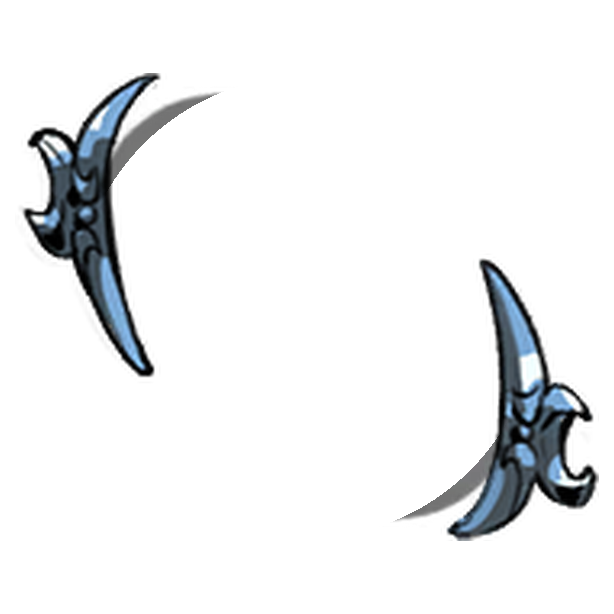
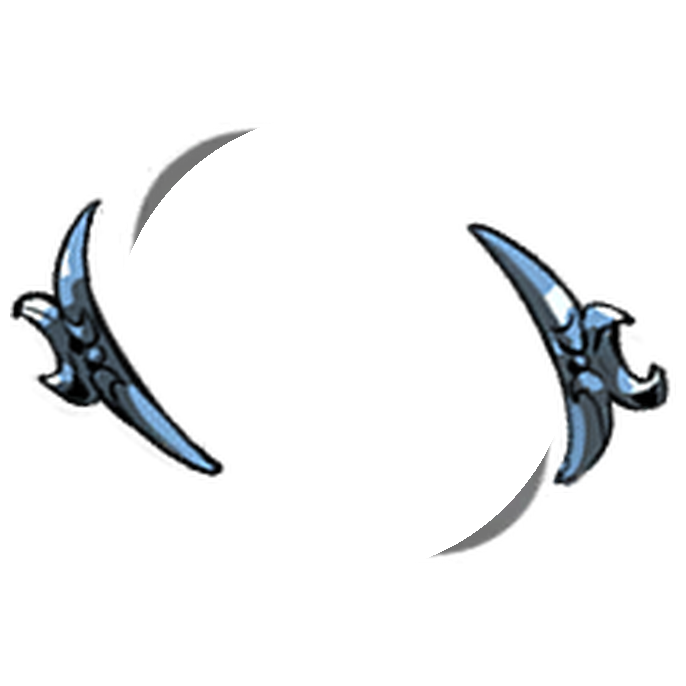
Wear the game's own marker on the run ring, and let Charon in
The run picker's ring is the game's Exit reward marker now, which is the right
answer to the question that ring asks: it is drawn on an Exit when there is
something behind it. The weapon and aspect rings stay on the plain drawn one.
Radial takes a frame override for that, so a ring can refuse the setting
without the setting having to know about it, and Setup is the only caller
using it: a weapon is a large diagonal cutout and the marker's wings reach
past the circle and tangle with a staff.

The wings needed the same treatment the disc did. They are drawn on the same
isometric plane, on an axis 25.7 degrees below horizontal, and on a real Exit
they read as left and right of the disc. The compose measures that angle from
their own alpha rather than hardcoding it, so a patch that moves them is
followed rather than fought, and lays them flat before cropping. They are
wider now too: at 1.14 of the disc they crossed the portrait inside it.

Charon. ChosenRewardType == "Shop" is a real door reward, RoomLogic.lua:4126
notes a Shop door is the one kind that cannot be rerolled, so a shop is behind
an Exit and spends one, unlike an Encounter.

And a shop is not its own family of rewards. StoreData.WorldShop stocks
RandomLoot and BoostedRandomLoot, which are a boon from any god and therefore
spend an Olympian slot, plus ShopHermesUpgrade, SpellDrop and
WeaponUpgradeDrop. So picking Charon asks the same question the other kinds
[…]

Changed region(s): [[0.6189, 0.3094, 0.9902, 0.8974], [0.0, 0.1238, 0.3713, 0.7117]]

diff --git a/scripts/reward-frame.ts b/scripts/reward-frame.ts
@@ -22,11 +22,16 @@
  * package. `deppth2`'s `-e` filter does not match these entries by any name
  * tried, so the package is extracted whole into `extracted/scriptsbase/`.
  *
- * **The disc is an ellipse, 122 by 162.** The game draws it in isometric, so it
- * is a circle seen at an angle. Squaring it back up is what makes it usable
- * face on, and it is why this script exists rather than a line in
- * `scripts/chrome.ts`: the shelf takes files as they are, and this one has to
- * be undistorted, punched through and recomposed first.
+ * **Both pieces are drawn in isometric and both have to be undone.** The disc
+ * is an ellipse, 122 by 162, so it is a circle seen at an angle; squaring the
+ * crop makes it round. The wings sit on an axis 25.7 degrees below horizontal,
+ * measured from their own alpha rather than hardcoded, and on a real Exit they
+ * read as left and right of the disc. Laying them flat is what makes the
+ * composed marker look like the thing in the game.
+ *
+ * That is why this is its own script rather than a line in `scripts/chrome.ts`:
+ * the shelf takes files as they are, and this one has to be undistorted,
+ * punched through and recomposed first.
  */
 
 import { existsSync, mkdirSync, writeFileSync } from 'node:fs'
@@ -71,8 +76,35 @@ def disc_ring(frame_path, punch=0.90):
     im.putalpha(Image.composite(im.getchannel("A"), Image.new("L", (SIZE, SIZE), 0), hole))
     return im
 
+def wing_axis(im):
+    """The angle the two crescents sit at, from their own alpha.
+
+    They are drawn diagonally because the game renders them on the same
+    isometric plane as the disc; on a door they read horizontal. Splitting the
+    sprite down the middle and taking each half's alpha-weighted centroid gives
+    the axis without hardcoding a number that a patch could move.
+    """
+    a = im.getchannel("A")
+    w, h = im.size
+    px = a.load()
+    def centroid(x0, x1):
+        sx = sy = n = 0
+        for y in range(h):
+            for x in range(x0, x1):
+                v = px[x, y]
+                if v > 30:
+                    sx += x*v; sy += y*v; n += v
+        return (sx/n, sy/n) if n else None
+    left, right = centroid(0, w//2), centroid(w//2, w)
+    if not left or not right:
+        return 0.0
+    import math
+    return math.degrees(math.atan2(right[1]-left[1], right[0]-left[0]))
+
 def wings(path, width):
     im = Image.open(path).convert("RGBA")
+    # Lay them flat first, then crop, or the crop keeps the diagonal's slack.
+    im = im.rotate(wing_axis(im), resample=Image.BICUBIC, expand=True)
     im = im.crop(im.getchannel("A").getbbox())
     return im.resize((width, round(im.height * width / im.width)), Image.LANCZOS)
 
@@ -91,10 +123,12 @@ for name, wing_src in [("run", "RoomRewardFrame-Run.png"), ("meta", "RoomRewardF
         report.append({"name": name, "error": "no " + wing_src})
         continue
 
-    canvas = round(SIZE * 1.2)
+    canvas = round(SIZE * 1.34)
     marker = Image.new("RGBA", (canvas, canvas), (0, 0, 0, 0))
     marker.alpha_composite(disc_ring(still), ((canvas - SIZE)//2, (canvas - SIZE)//2))
-    w = wings(wing_path, round(SIZE * 1.14))
+    # Wide enough that the crescents sit outside the disc, which is where the
+    # game puts them. At 1.14 they crossed the portrait inside it.
+    w = wings(wing_path, round(SIZE * 1.30))
     marker.alpha_composite(w, ((canvas - w.width)//2, (canvas - w.height)//2))
 
     suffix = "" if name == "run" else "-meta"

diff --git a/src/ui/Picker.tsx b/src/ui/Picker.tsx
@@ -30,7 +30,7 @@ import type { ArtShape } from './Radial.tsx'
 import type { HeldTrait, RunContext, TraitId } from '../data/types.ts'
 import type { RunEntry } from '../state/run.ts'
 
-type Kind = 'boon' | 'other' | 'hammer' | 'encounter' | 'artifact'
+type Kind = 'boon' | 'other' | 'hammer' | 'shop' | 'encounter' | 'artifact'
 
 const KINDS: { id: Kind; name: string; icon: string | null; art: ArtShape; note: string }[] = [
   {
@@ -61,6 +61,13 @@ const KINDS: { id: Kind; name: string; icon: string | null; art: ArtShape; note:
     icon: 'gods/artemis.webp',
     art: 'portrait',
     note: 'Not an Exit at all, and costs no slot',
+  },
+  {
+    id: 'shop',
+    name: "Charon's shop",
+    icon: 'characters/charon.webp',
+    art: 'portrait',
+    note: 'An Exit like any other. What you bought is what counts',
   },
   {
     id: 'artifact',
@@ -109,6 +116,27 @@ export function Picker({
     if (which === 'boon') return sources.filter((s) => s.kind === 'olympian' && openGods.has(s.id))
     if (which === 'hammer') return sources.filter((s) => s.kind === 'hammer' && s.weapon === run.weapon)
     if (which === 'other') return sources.filter((s) => s.kind === 'hex' || (s.kind === 'other' && s.id === 'Hermes'))
+    /**
+     * What Charon stocks, from `StoreData.WorldShop`.
+     *
+     * `RandomLoot` and `BoostedRandomLoot` are a boon from any god, so buying
+     * one **does** spend an Olympian slot. `ShopHermesUpgrade` is Hermes,
+     * `SpellDrop` is Selene's Hex, `WeaponUpgradeDrop` is a Daedalus Hammer.
+     * The rest of his stock is Poms, health, Magick and Talents, which move no
+     * verdict and are logged under "Something else".
+     *
+     * So a shop is not its own family of rewards. It is another route to the
+     * families that already exist, and it asks the same question they do.
+     */
+    if (which === 'shop') {
+      return sources.filter(
+        (s) =>
+          (s.kind === 'olympian' && openGods.has(s.id)) ||
+          s.kind === 'hex' ||
+          (s.kind === 'other' && s.id === 'Hermes') ||
+          (s.kind === 'hammer' && s.weapon === run.weapon),
+      )
+    }
     if (which === 'encounter') {
       return sources.filter((s) => {
         if (s.kind === 'other' && s.id === 'Chaos') return true

diff --git a/src/ui/Radial.tsx b/src/ui/Radial.tsx
@@ -21,6 +21,8 @@
 
 import { useState } from 'react'
 
+import { FRAMES, frameVars } from './frames.ts'
+
 /**
  * How a piece of art wants to be drawn.
  *
@@ -56,6 +58,7 @@ export function Radial({
    * aspect cutouts, "portraits" for faces.
    */
   variant = 'default',
+  frame,
 }: {
   items: RadialItem[]
   chosen: string | null
@@ -63,8 +66,19 @@ export function Radial({
   label: string
   centre?: RadialItem | null
   variant?: 'default' | 'renders' | 'portraits'
+  /**
+   * Wear this frame instead of the one the menu chose.
+   *
+   * The weapon and aspect rings ask for the plain one: their art is large
+   * transparent cutouts and the game's own reward marker, which has wings
+   * reaching well past the circle, tangles with a staff laid diagonally
+   * across it. The run picker takes the setting, because that is the ring a
+   * player actually looks at.
+   */
+  frame?: string
 }) {
   const [hovered, setHovered] = useState<string | null>(null)
+  const override = frame ? FRAMES.find((entry) => entry.id === frame) : null
 
   // A ring of twelve needs smaller bubbles than a ring of four, or they overlap.
   const bubble = items.length <= 6 ? 0.24 : items.length <= 9 ? 0.19 : 0.16
@@ -74,7 +88,7 @@ export function Radial({
       className={`radial is-${variant}${hovered ? ' is-hovering' : ''}`}
       role="group"
       aria-label={label}
-      style={{ '--bubble-scale': bubble } as React.CSSProperties}
+      style={{ '--bubble-scale': bubble, ...(override ? frameVars(override) : {}) } as React.CSSProperties}
     >
       <div className="radial-ring-area">
 

diff --git a/src/ui/frames.ts b/src/ui/frames.ts
@@ -132,8 +132,8 @@ export const FRAMES: FrameOption[] = [
     name: 'Wings',
     note: 'The same marker with the disc taken off, so only the wings read',
     file: 'frames/reward-wings.png',
-    width: 1.42,
-    aspect: '584 / 468',
+    width: 1.5,
+    aspect: '666 / 301',
     opacity: 0.95,
   },
 
@@ -183,7 +183,14 @@ export const FRAMES: FrameOption[] = [
   { id: 'none', name: 'None', note: 'Just the bubble', file: null },
 ]
 
-export const DEFAULT_FRAME = 'ring'
+/**
+ * The game's own Exit reward marker, on the ring where a player logs an Exit.
+ *
+ * The run picker is asking "what did this Exit give", and this is the thing the
+ * game draws on an Exit when it has something behind it. Nothing invented is
+ * going to beat that.
+ */
+export const DEFAULT_FRAME = 'reward'
 
 const KEY = 'enodia.frame'
 

diff --git a/src/ui/Setup.tsx b/src/ui/Setup.tsx
@@ -54,6 +54,9 @@ export function Setup({
   return (
     <section className="setup">
       <Radial
+        // The plain ring, always: a weapon is a diagonal cutout and the game's
+        // reward marker has wings that reach past the circle and tangle with it.
+        frame="ring"
         variant="renders"
         label={chosenWeapon ? 'Which aspect' : 'Which arm'}
         items={items}

diff --git a/ROADMAP.md b/ROADMAP.md
@@ -200,11 +200,13 @@ their own set, so an aspect chosen at setup can settle a build before the first 
   run header offered a plus and a minus; both were the tool's question rather than the
   player's, because nobody can correct a number they have no way of knowing. It reads
   "about 7 Exits left" now and the beads say "about 5 more, if this run is a usual length"
-- **Open, and the owner is right that it is missing: Charon.** `ChosenRewardType == "Shop"`
-  is a real door reward, sourced at `RoomLogic.lua:4126`, which also says a Shop door alone
-  cannot be rerolled. So a shop **is** behind an Exit and costs one, unlike an Encounter.
-  What a Charon entry should record is a product decision and the owner's: he sells rather
-  than offers, his stock is in `StoreData.lua`, and a bought boon is still a boon in a slot
+- ~~Charon was missing~~. He is a kind now, and he spends an Exit, because
+  `ChosenRewardType == "Shop"` is a real door reward: `RoomLogic.lua:4126` says a Shop door
+  is the one kind that cannot be rerolled. **A shop is not its own family of rewards, it is
+  another route to the ones that exist.** `StoreData.WorldShop` stocks `RandomLoot` and
+  `BoostedRandomLoot`, which are a boon from any god and therefore spend an Olympian slot,
+  plus `ShopHermesUpgrade`, `SpellDrop` and `WeaponUpgradeDrop`. So picking Charon asks the
+  same question the other kinds do, and his Poms and health go under "Something else"
 
 **Step 9, and the one design decision in it**
 
